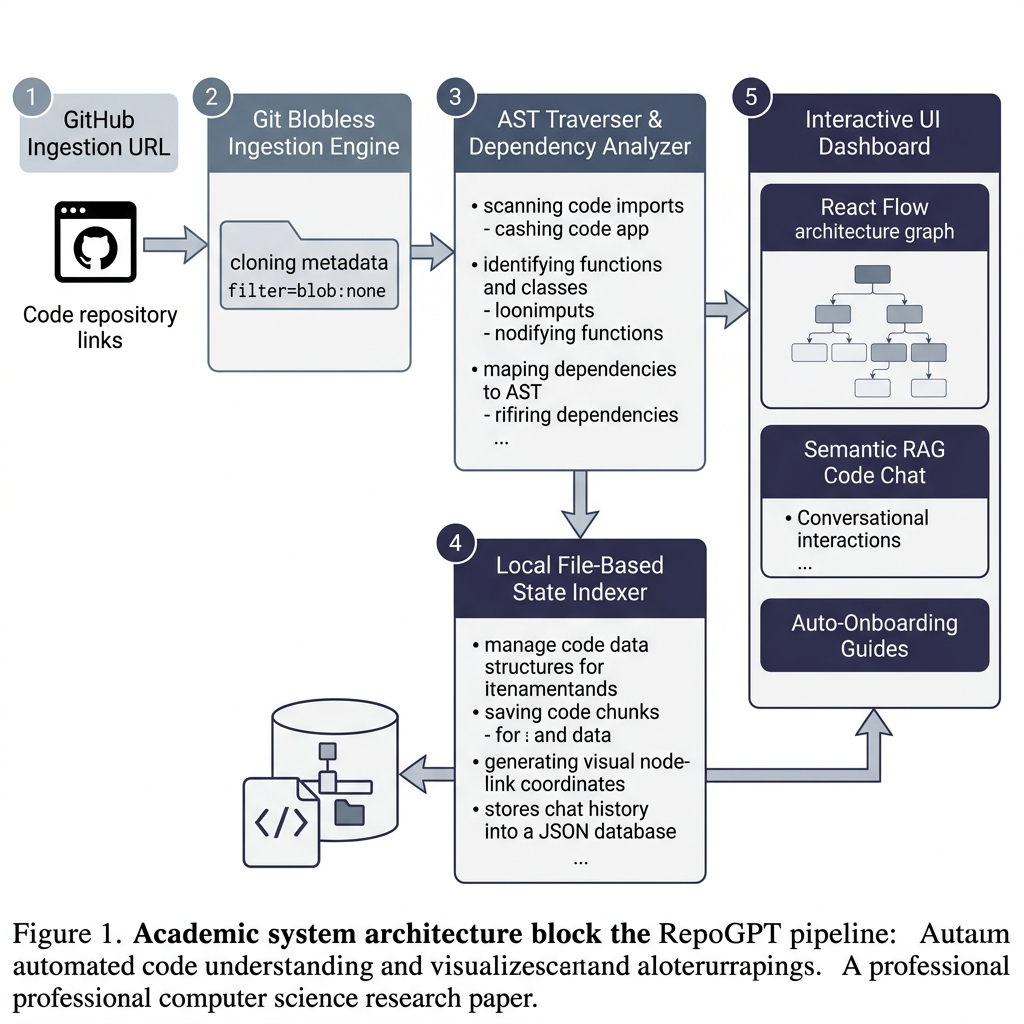
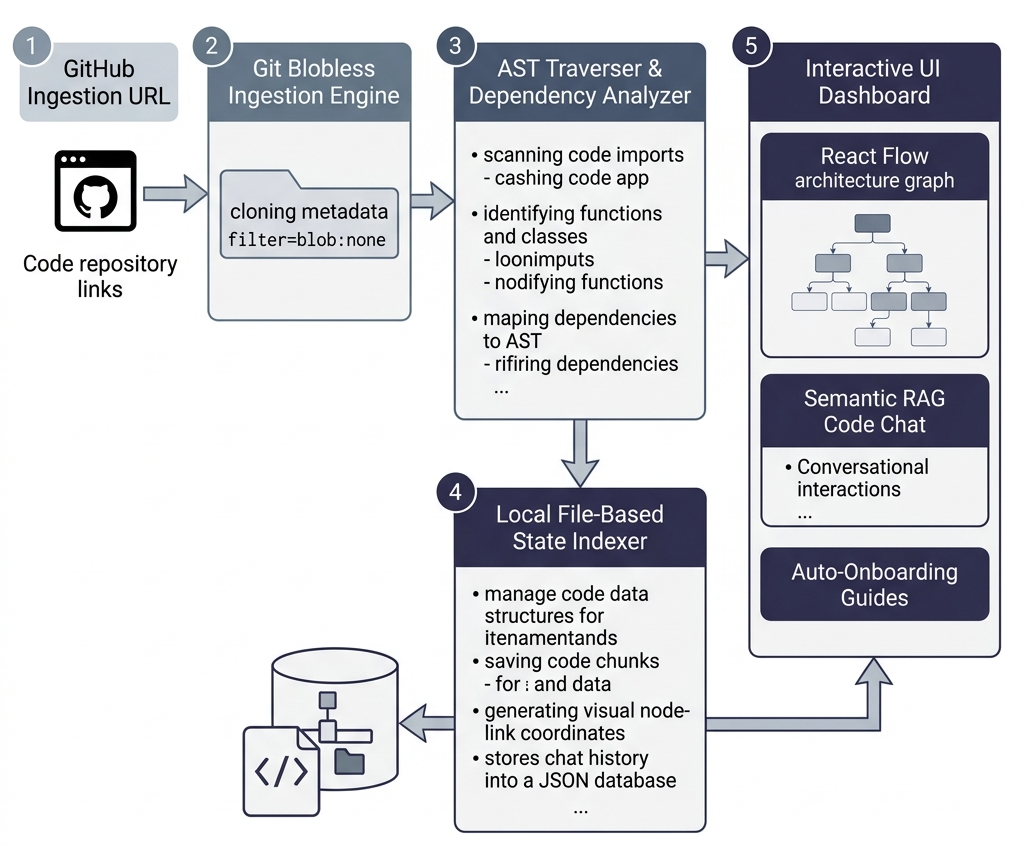
Create DEPLOYMENT.md detailed guide, update README deployment links, and simplify License section to a single line linking to MIT License

Changed region(s): [[0.0, 0.0306, 1.0, 1.0], [0.2188, 0.3365, 0.4062, 0.3976], [0.6875, 0.2753, 0.7188, 0.3365]]

diff --git a/DEPLOYMENT.md b/DEPLOYMENT.md
@@ -1,0 +1,167 @@
+# 🚀 RepoGPT Deployment Guide
+
+This guide provides comprehensive, step-by-step instructions to deploy RepoGPT to various cloud hosting providers. Since RepoGPT performs local file operations (git cloning and directory scans), it runs best as a **persistent container** or **VPS (Virtual Private Server)**.
+
+---
+
+## 📋 Table of Contents
+1. [Prerequisites](#-prerequisites)
+2. [Deployment Option 1: DigitalOcean App Platform (Recommended)](#-deployment-option-1-digitalocean-app-platform-recommended)
+3. [Deployment Option 2: Render (Web Service)](#-deployment-option-2-render-web-service)
+4. [Deployment Option 3: Railway.app (Hobby Container)](#-deployment-option-3-railwayapp-hobby-container)
+5. [Deployment Option 4: Self-Hosted Ubuntu VPS (PM2 & Nginx)](#-deployment-option-4-self-hosted-ubuntu-vps-pm2--nginx)
+6. [Environment Variables Reference](#-environment-variables-reference)
+
+---
+
+## ⚙️ Prerequisites
+
+Before starting, ensure that:
+1. Your repository is pushed to a public (or private with access key) GitHub repository.
+2. You have determined your target database path (e.g., `/tmp/data` or a local folder) based on whether your environment has a persistent filesystem.
+
+---
+
+## 🌊 Deployment Option 1: DigitalOcean App Platform (Recommended)
+
+DigitalOcean App Platform is a fully managed PaaS that integrates directly with GitHub. It is highly recommended for students using the **GitHub Student Developer Pack** (which provides a $200 free credit).
+
+### Step-by-Step Instructions:
+1. Log in to the [DigitalOcean Cloud Console](https://cloud.digitalocean.com/).
+2. In the top right corner, click **Create** and select **Apps**.
+3. Under **Service Provider**, click **GitHub**. 
+4. Select your `RepoGPT` repository and branch (usually `main`), check **Autodeploy code changes**, and click **Next**.
+5. DigitalOcean will auto-detect your project as a **Next.js** application:
+   - Click **Edit Plan** for the resource.
+   - Choose the **Basic Tier** ($5.00/month).
+   - Set the size to **512 MB RAM / 1 vCPU**.
+6. Set the Environment Variables by clicking **Edit** next to Global Variables:
+   - Add `RENDER` = `true` (forces the filesystem to write to `/tmp` to avoid build locks).
+7. Click **Next** on Info, **Next** on Build/Run commands (leave as default Next.js build settings), and click **Create Resources**.
+8. Once the build completes, DigitalOcean will output a live domain (e.g., `https://repogpt-xxxxx.ondigitalocean.app`) that is online 24/7 with zero cold starts!
+
+---
+
+## ☁️ Deployment Option 2: Render (Web Service)
+
+Render is a clean, developer-friendly platform. The Free tier is available but subject to 15-minute inactivity spin-downs.
+
+### Step-by-Step Instructions:
+1. Create an account on [Render.com](https://render.com/).
+2. On your dashboard, click **New +** and select **Web Service**.
+3. Connect your GitHub account and select your `RepoGPT` repository.
+4. Fill in the service configuration:
+   *   **Name**: `repogpt`
+   *   **Language**: `Node`
+   *   **Branch**: `main`
+   *   **Region**: Select a region close to your target users.
+   *   **Build Command**: `npm run build`
+   *   **Start Command**: `npm run start`
+   *   **Instance Type**: `Free` (or upgrade to `Starter` to keep it awake 24/7).
+5. Click **Advanced** and add the following **Environment Variables**:
+   *   `RENDER` = `true`
+   *   `DATA_DIR` = `/tmp/data`
+   *   `TEMP_DIR` = `/tmp/temp_repos`
+6. Click **Create Web Service**.
+7. *(Optional for Free Tier)*: To prevent the service from showing the waking up/sleeping screen, set up a free keep-alive monitor on [UptimeRobot](https://uptimerobot.com/) to ping your Render URL (e.g., `https://repogpt-3azy.onrender.com/`) every 10 minutes.
+
+---
+
+## 🚂 Deployment Option 3: Railway.app (Hobby Container)
+
+Railway offers extremely fast build pipelines and persistent container allocation with no sleep timer on the Hobby plan.
+
+### Step-by-Step Instructions:
+1. Sign up on [Railway.app](https://railway.app/) using GitHub.
+2. Click **New Project** in the workspace dashboard.
+3. Choose **Deploy from GitHub repo** and select your `RepoGPT` repository.
+4. Once added, click the **Variables** tab on your service card:
+   - Add `PORT` = `3000`
+5. Go to the **Settings** tab:
+   - Scroll down to the **Environment** section.
+   - Click **Generate Domain** to assign a public URL to your service.
+6. Railway will build, bundle, and launch the application instantly.
+
+---
+
+## 🖥️ Deployment Option 4: Self-Hosted Ubuntu VPS (PM2 & Nginx)
+
+For complete control and permanent local file storage, you can deploy RepoGPT on any Virtual Private Server (e.g. DigitalOcean Droplet, Hetzner, AWS EC2, or Oracle Cloud Always Free VM).
+
+### Step-by-Step Instructions:
+
+#### 1. System Setup
+SSH into your VPS and install Git, Node.js, and PM2 (Process Manager):
+```bash
+# Update package lists
+sudo apt update && sudo apt upgrade -y
+
+# Install Node.js (v20 LTS)
+curl -fsSL https://deb.nodesource.com/setup_20.x | sudo -E bash -
+sudo apt-get install -y nodejs
+
+# Install Git
+sudo apt install git -y
+
+# Install PM2 globally
+sudo npm install pm2 -g
+```
+
+#### 2. Clone and Install dependencies
+Clone your repository and install packages:
+```bash
+git clone https://github.com/jaymore4501/RepoGPT.git
+cd RepoGPT
+npm install
+```
+
+#### 3. Compile and Run the App
+Build the production Next.js package and start it using PM2 to keep it running in the background:
+```bash
+# Build the Next.js bundle
+npm run build
+
+# Start the application with PM2
+pm2 start npm --name "repogpt" -- start
+
+# Configure PM2 to restart on server reboot
+pm2 startup
+pm2 save
+```
+
+#### 4. Configure Nginx Reverse Proxy
+To map your domain name (port 80/443) to Next.js running locally (port 3000):
+```bash
+# Install Nginx
+sudo apt install nginx -y
+
+# Edit Nginx configuration
+sudo nano /etc/nginx/sites-available/default
+```
+
+Replace the content of the `location /` block in Nginx config with:
+```nginx
+location / {
+    proxy_pass http://localhost:3000;
+    proxy_http_version 1.1;
+    proxy_set_header Upgrade $http_upgrade;
+    proxy_set_header Connection 'upgrade';
+    proxy_set_header Host $host;
+    proxy_cache_bypass $http_upgrade;
+}
+```
+Save the file (Ctrl+O, Enter, Ctrl+X) and restart Nginx:
+```bash
+sudo systemctl restart nginx
+```
+
+---
+
+## 🔑 Environment Variables Reference
+
+| Variable | Description | Default Value | Recommended Value |
+| :--- | :--- | :--- | :--- |
+| `PORT` | The port Next.js listens to. | `3000` | `3000` |
+| `RENDER` | Signals running in ephemeral cloud environments. | `false` | `true` (on Render, DO, Railway) |
+| `DATA_DIR` | Directory where parsed JSON index files and chats are saved. | `./data` | `/tmp/data` (for serverless/ephemeral) |
+| `TEMP_DIR` | Folder where repositories are cloned for AST scanning. | `./temp_repos` | `/tmp/temp_repos` (for serverless/ephemeral) |

diff --git a/README.md b/README.md
@@ -152,7 +152,7 @@ To interact with the codebase using conversational AI:
 
 ## 📦 Production Compilation & Deployment
 
-To deploy RepoGPT or compile it for maximum performance:
+For a detailed walkthrough on deploying RepoGPT to cloud platforms (DigitalOcean App Platform, Render, Railway) or running it on a self-hosted Ubuntu VPS, please refer to the dedicated [Deployment Guide](DEPLOYMENT.md).
 
 ### Local Production Server
 Build the optimized production bundle and start the server:
@@ -165,19 +165,8 @@ npm run start
 ```
 The server will start running on port `3000`.
 
-### Vercel / Cloud Deployment
-Since RepoGPT is a standard Next.js application, it can be deployed directly to Vercel or other cloud container providers (like Render, AWS, or Railway):
-1.  Push your code repository to GitHub.
-2.  Import the repository into Vercel.
-3.  Vercel will automatically detect Next.js settings and build/deploy the application.
-4.  *Note:* Because cloning and parsing happen on the server, ensure the hosting environment has access to a `git` binary and sufficient disk space to hold temporary cloned repositories under `temp_repos/`.
-
 ---
 
 ## 📄 License
 
-**Proprietary & Closed-Source Software**
-
-This project is licensed under a strict proprietary license. Copyright (c) 2026 RepoGPT. All rights reserved. 
-
-No portion of this software may be copied, redistributed, publicly hosted, modified, or sublicensed without express prior written permission from the copyright owner. Unauthorized reproduction or copying violates national and international copyright law. See the [LICENSE](LICENSE) file for complete details.
+This project is licensed under the [MIT License](LICENSE).